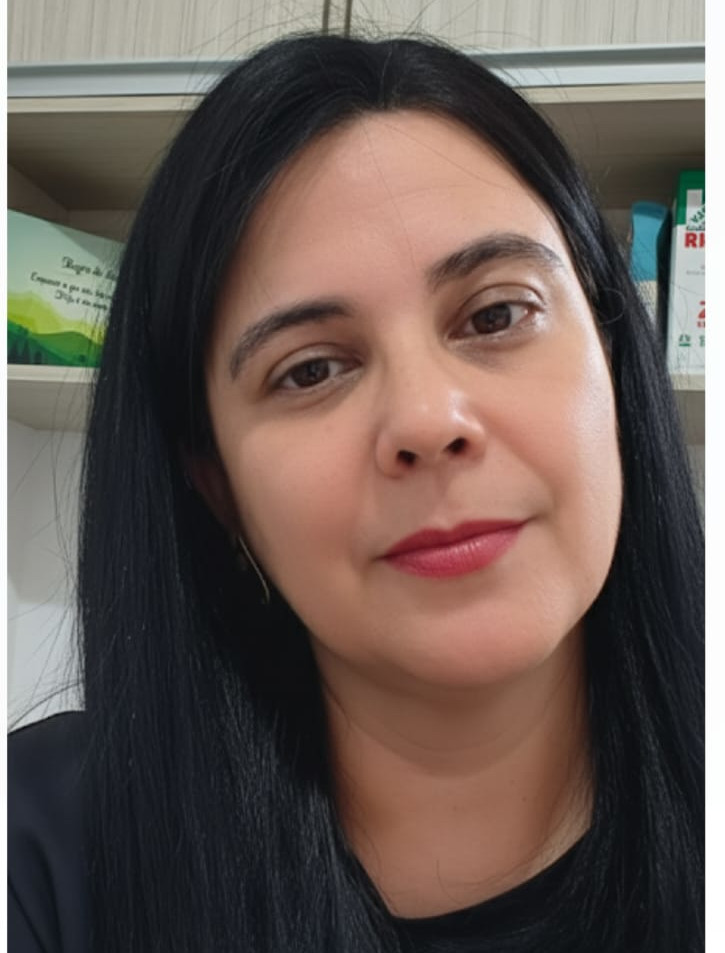
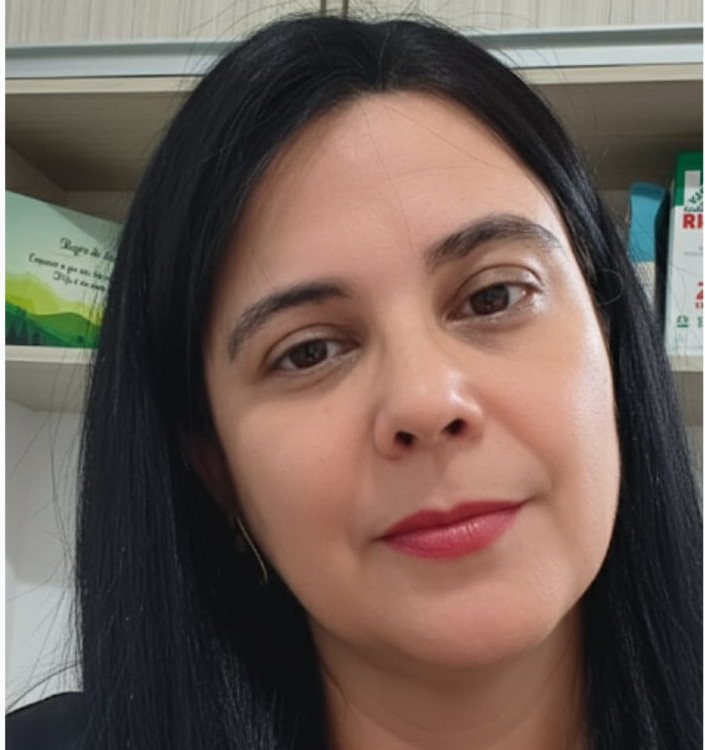
fix: Corrigindo o tamanho das imagens e o scroll

diff --git a/styles/sobre.css b/styles/sobre.css
@@ -13,11 +13,32 @@ section.sobreAdvogados{
     height: 330px;
     border-radius: 50%;
 }
+@media screen and (min-width: 601px) and (max-width: 1024px) {
+    .fotoAdvogados {
+        width: 250px;
+        height: 250px;
+        margin-bottom: -40px;
+    }
+    section.sobreAdvogados {
+        flex-direction: column;
+        gap: 0px;
+        padding: 0px;
+        margin: 0px;
+    }
+    .sobre {
+        text-align: center;
+        padding: 0px 10px;
+        font-size: 90%;
+        }
+    .advogados {
+        font-size: 20pt;
+    }
+}
 
 @media screen and (max-width: 600px) {
     .fotoAdvogados {
-        width: 300px;
-        height: 300px;
+        width: 170px;
+        height: 170px;
         margin-bottom: -40px;
     }
     section.sobreAdvogados {

diff --git a/styles/carrossel.css b/styles/carrossel.css
@@ -1,6 +1,6 @@
 #Avaliações{
   padding: 20px 0;
-  height: 110dvh;
+  height: 110svh;
 }
 .carrossel-section {
   width: 100%;
@@ -122,10 +122,10 @@
 }
 @media (max-width: 600px) {
   body{
-    height: 427dvh;
+    height: 427svh;
   }
   #Avaliações{
-    height: 100dvh;
+    height: 100svh;
   }
   .carrossel-container {
     width: 100vw;
@@ -140,7 +140,7 @@
     width: 90vw;
     max-width: 95vw;
     height: 570px;
-    max-height: 90dvh;
+    max-height: 90svh;
     font-size: 0.95rem;
     padding: 10px 4px;
   }

diff --git a/styles/style.css b/styles/style.css
@@ -22,7 +22,7 @@ header.cabeçalho {
   z-index: 999;
 }
 div#Home {
-  height: 100dvh;
+  height: 100svh;
 }
 .logo {
   width: 130px;
@@ -104,7 +104,7 @@ span.titulo {
 }
 
 section {
-  height: 100dvh;
+  height: 100svh;
   border-top: 1px solid var(--cor-primaria);
   padding: 25px;
   padding-top: 65px;
@@ -171,7 +171,7 @@ footer {
   border-top: 1px solid var(--cor-primaria);
 }
 #Contatos{
-  height: 100dvh;
+  height: 100svh;
   margin-top: 0px;
   padding: 20px 10px;
   background-color: var(--cor-secundaria);

diff --git a/styles/theme.css b/styles/theme.css
@@ -15,6 +15,6 @@ body {
   overflow-x: hidden;
   top: 0;
   background-color: var(--cor-de-fundo);
-  height: 440dvh;
+  height: 440svh;
 }
 

diff --git a/styles/serviços.css b/styles/serviços.css
@@ -1,5 +1,5 @@
 #Serviços {
-  height: 120dvh;
+  height: 120svh;
   position: relative;
 }
 table {
